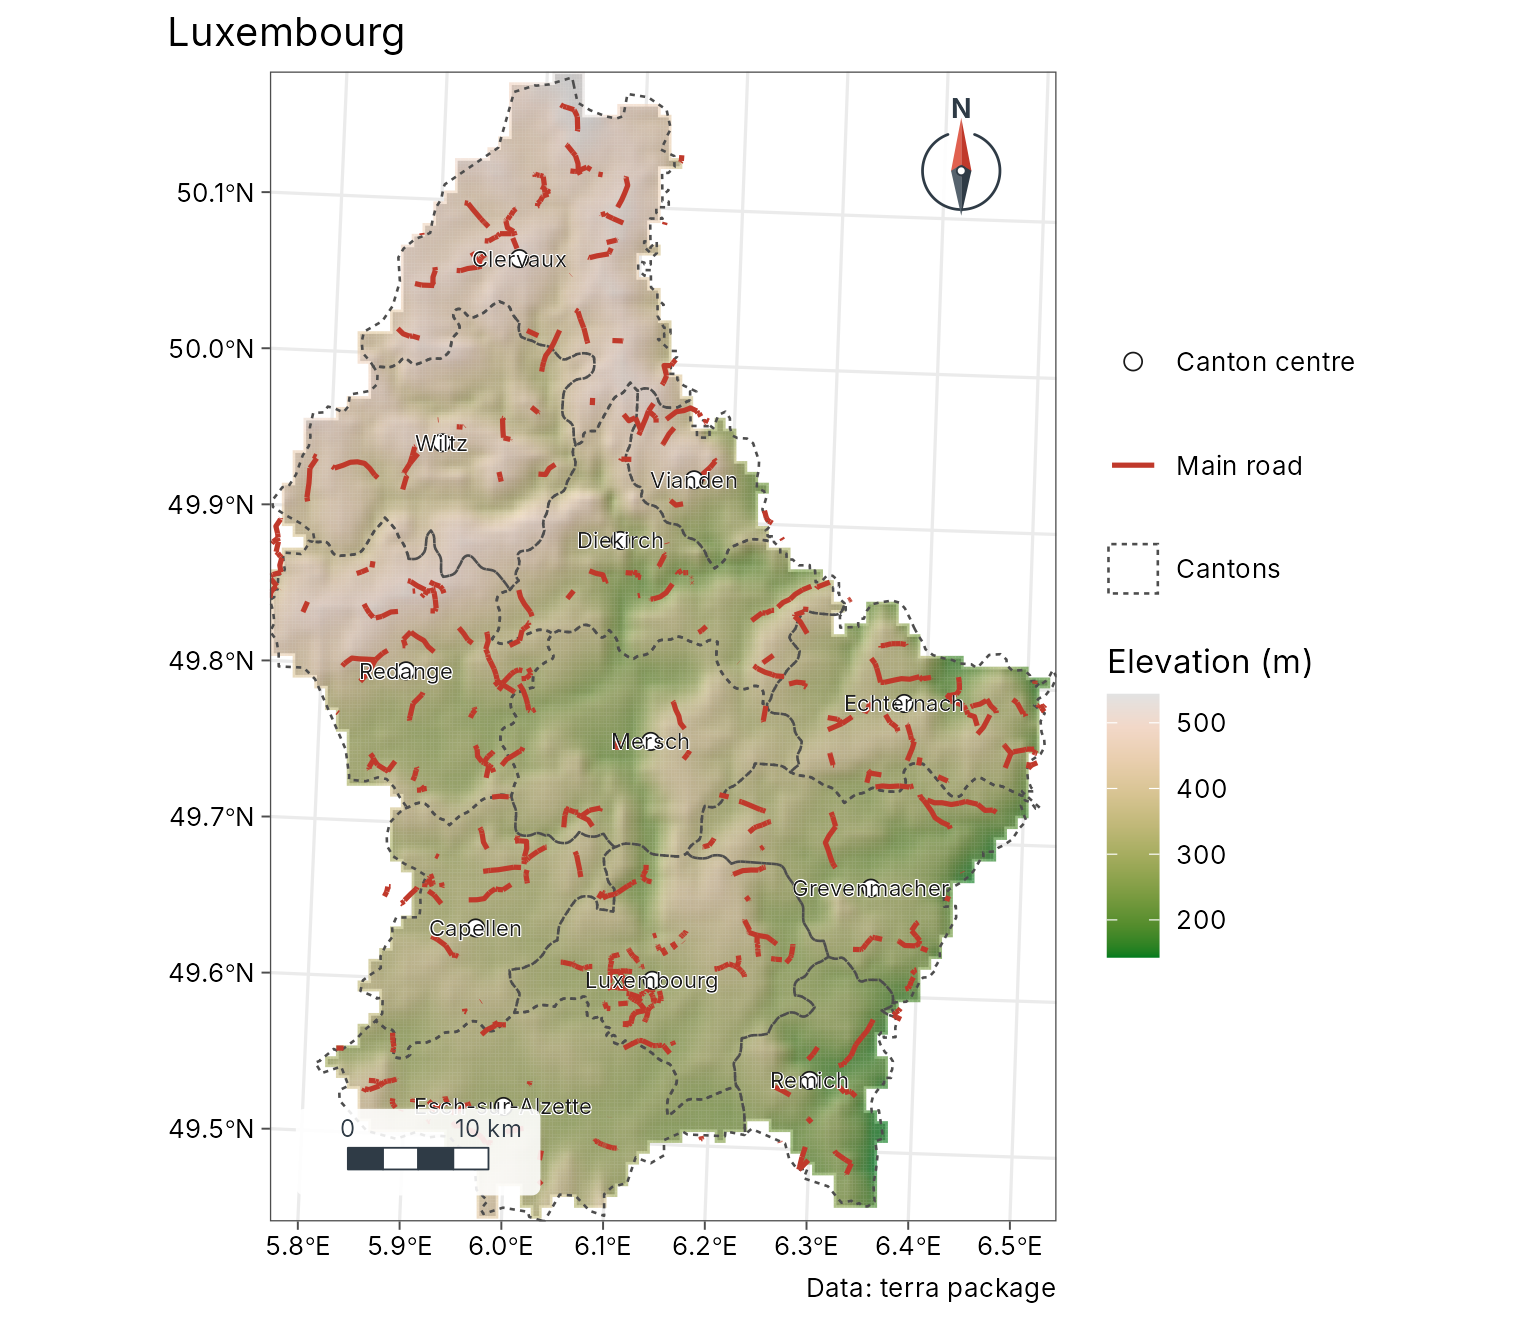
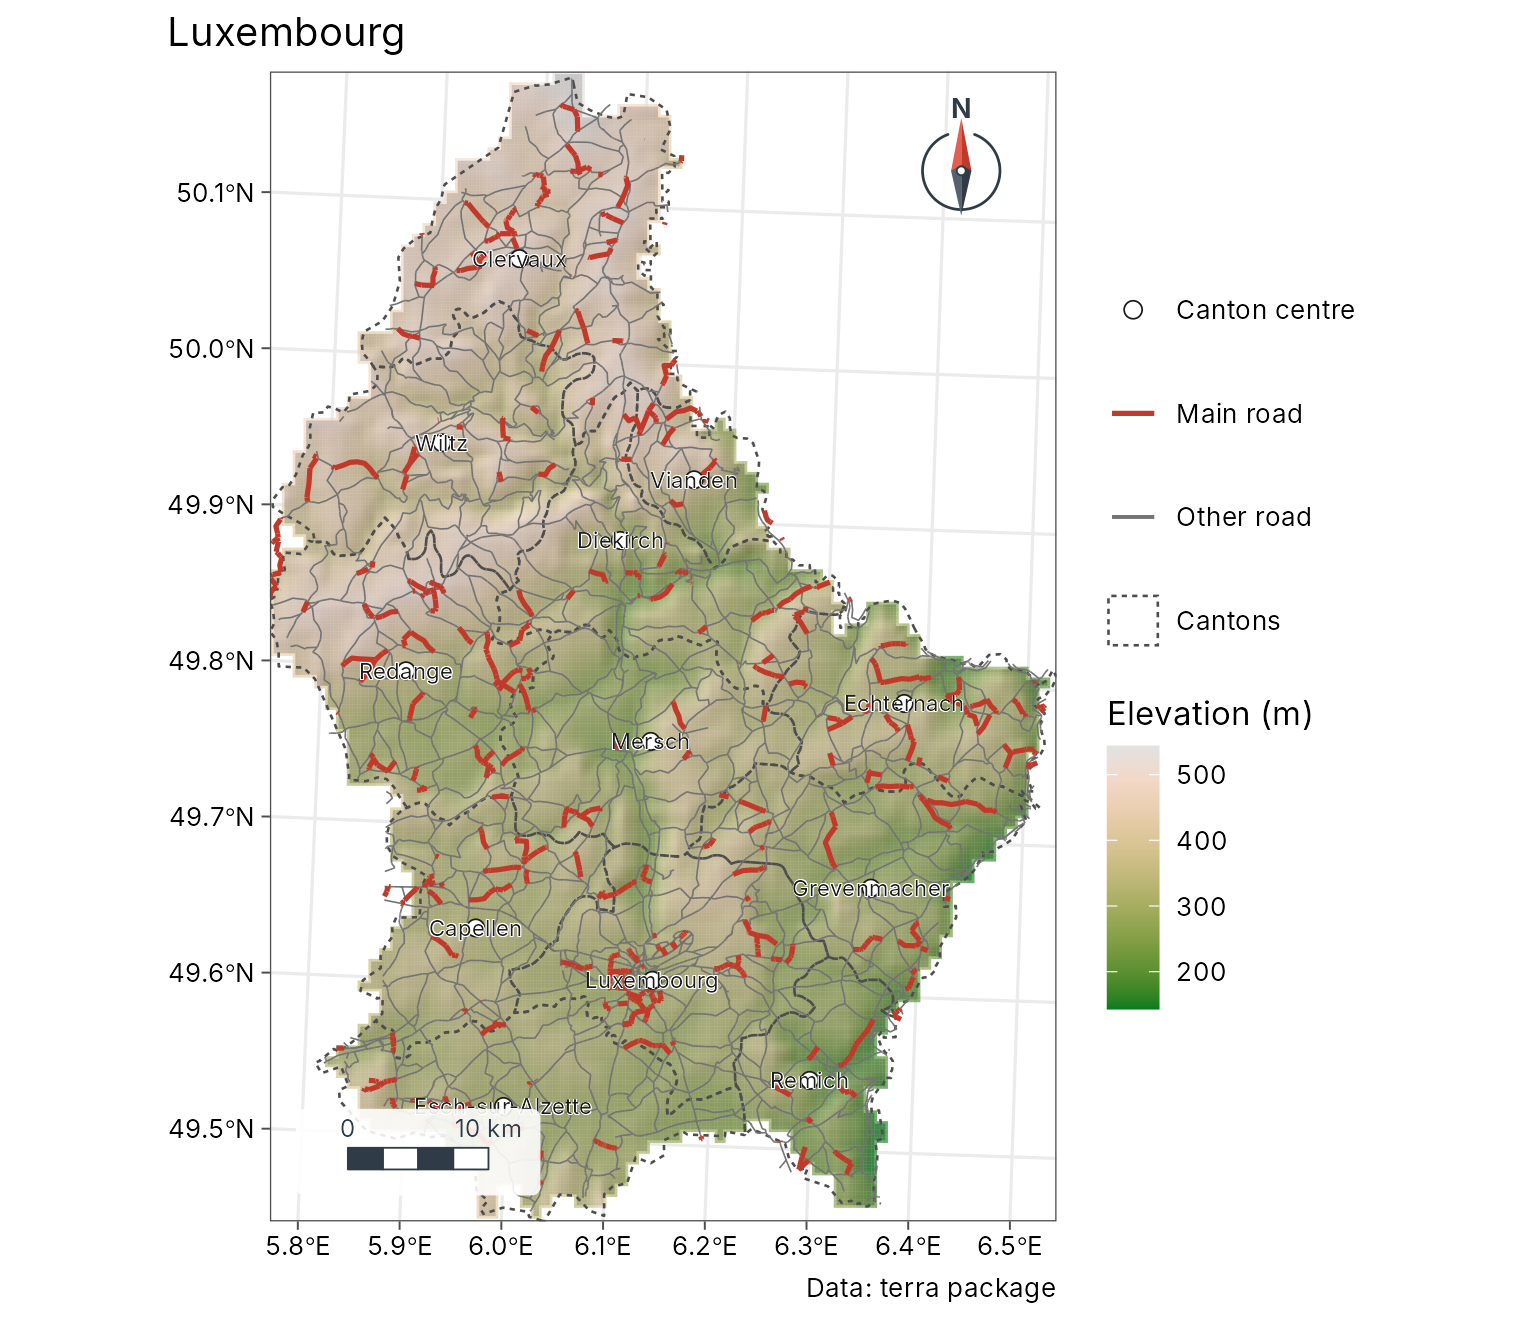
Draw the full road network in the Get started maps
The road extract splits each road into pieces of different classes, so
primary pieces alone looked disconnected. Draw minor roads first and main
roads on top, so the network is continuous.

diff --git a/docs/articles/tidymapr.html b/docs/articles/tidymapr.html
@@ -138,14 +138,14 @@ the data, and <code><a href="../reference/geo_automap.html">geo_automap_explain(
 <p><img src="tidymapr_files/figure-html/automap-1.png" class="r-plt" alt="Population of Luxembourg's cantons in five classes, with scale bar and north arrow" width="100%"></p>
 <div class="sourceCode" id="cb4"><pre class="downlit sourceCode r">
 <code class="sourceCode R"><span><span class="fu"><a href="../reference/geo_automap.html">geo_automap_explain</a></span><span class="op">(</span><span class="va">m</span><span class="op">)</span></span>
-<span><span class="co">#&gt; <span style="color: #949494;"># A tibble: 5 × 3</span></span></span>
+<span><span class="co">#&gt; # A tibble: 5 × 3</span></span>
 <span><span class="co">#&gt;   element     choice                                       reason               </span></span>
-<span><span class="co">#&gt;   <span style="color: #949494; font-style: italic;">&lt;chr&gt;</span>       <span style="color: #949494; font-style: italic;">&lt;chr&gt;</span>                                        <span style="color: #949494; font-style: italic;">&lt;chr&gt;</span>                </span></span>
-<span><span class="co">#&gt; <span style="color: #BCBCBC;">1</span> projection  utm                                          Data span 1.5 degree…</span></span>
-<span><span class="co">#&gt; <span style="color: #BCBCBC;">2</span> symbology   graduated colours (jenks, 4 classes, YlOrRd) 'POP' is numeric and…</span></span>
-<span><span class="co">#&gt; <span style="color: #BCBCBC;">3</span> basemap     none                                         Polygons, rasters an…</span></span>
-<span><span class="co">#&gt; <span style="color: #BCBCBC;">4</span> scale bar   pill at tr                                   Distances matter at …</span></span>
-<span><span class="co">#&gt; <span style="color: #BCBCBC;">5</span> north arrow needle at tl                                 Second-emptiest corn…</span></span></code></pre></div>
+<span><span class="co">#&gt;   &lt;chr&gt;       &lt;chr&gt;                                        &lt;chr&gt;                </span></span>
+<span><span class="co">#&gt; 1 projection  utm                                          Data span 1.5 degree…</span></span>
+<span><span class="co">#&gt; 2 symbology   graduated colours (jenks, 4 classes, YlOrRd) 'POP' is numeric and…</span></span>
+<span><span class="co">#&gt; 3 basemap     none                                         Polygons, rasters an…</span></span>
+<span><span class="co">#&gt; 4 scale bar   pill at tr                                   Distances matter at …</span></span>
+<span><span class="co">#&gt; 5 north arrow needle at tl                                 Second-emptiest corn…</span></span></code></pre></div>
 </div>
 <div class="section level2">
 <h2 id="a-layered-map">A layered map<a class="anchor" aria-label="anchor" href="#a-layered-map"></a>
@@ -153,13 +153,16 @@ the data, and <code><a href="../reference/geo_automap.html">geo_automap_explain(
 <p><code><a href="../reference/geo-map.html">geo_map()</a></code> builds a map one layer at a time, as in a
 desktop GIS. Each layer gets its own legend section with the symbol for
 its geometry: a colour bar for the raster, a box for polygons, a line
-for roads and a point for towns. <code>preset</code> gives a layer a
-standard cartographic style by name (see
-<code><a href="../reference/map_presets.html">map_presets()</a></code>).</p>
+for roads and a point for towns. Roads are drawn in two classes, minor
+roads first and main roads on top, so the network stays connected (in
+this OpenStreetMap extract each road is split into pieces of different
+classes). <code>preset</code> gives a layer a standard cartographic
+style by name (see <code><a href="../reference/map_presets.html">map_presets()</a></code>).</p>
 <div class="sourceCode" id="cb5"><pre class="downlit sourceCode r">
 <code class="sourceCode R"><span><span class="va">lux</span> <span class="op">&lt;-</span> <span class="fu"><a href="../reference/geo-map.html">geo_map</a></span><span class="op">(</span>title <span class="op">=</span> <span class="st">"Luxembourg"</span>, caption <span class="op">=</span> <span class="st">"Data: terra package"</span><span class="op">)</span> <span class="op">|&gt;</span></span>
 <span>  <span class="fu"><a href="../reference/geo-map.html">map_raster</a></span><span class="op">(</span><span class="va">elev</span>, name <span class="op">=</span> <span class="st">"Elevation (m)"</span>, palette <span class="op">=</span> <span class="st">"Terrain 2"</span>, hillshade <span class="op">=</span> <span class="cn">TRUE</span><span class="op">)</span> <span class="op">|&gt;</span></span>
 <span>  <span class="fu"><a href="../reference/geo-map.html">map_polygons</a></span><span class="op">(</span><span class="va">cantons</span>, preset <span class="op">=</span> <span class="st">"admin"</span>, label <span class="op">=</span> <span class="st">"Cantons"</span><span class="op">)</span> <span class="op">|&gt;</span></span>
+<span>  <span class="fu"><a href="../reference/geo-map.html">map_lines</a></span><span class="op">(</span><span class="va">roads</span><span class="op">[</span><span class="va">roads</span><span class="op">$</span><span class="va">highway</span> <span class="op">!=</span> <span class="st">"primary"</span>, <span class="op">]</span>, preset <span class="op">=</span> <span class="st">"road_minor"</span>, label <span class="op">=</span> <span class="st">"Other road"</span>, linewidth <span class="op">=</span> <span class="fl">0.25</span><span class="op">)</span> <span class="op">|&gt;</span></span>
 <span>  <span class="fu"><a href="../reference/geo-map.html">map_lines</a></span><span class="op">(</span><span class="va">roads</span><span class="op">[</span><span class="va">roads</span><span class="op">$</span><span class="va">highway</span> <span class="op">==</span> <span class="st">"primary"</span>, <span class="op">]</span>, preset <span class="op">=</span> <span class="st">"road_major"</span><span class="op">)</span> <span class="op">|&gt;</span></span>
 <span>  <span class="fu"><a href="../reference/geo-map.html">map_points</a></span><span class="op">(</span><span class="va">seats</span>, preset <span class="op">=</span> <span class="st">"town"</span>, label <span class="op">=</span> <span class="st">"Canton centre"</span><span class="op">)</span> <span class="op">|&gt;</span></span>
 <span>  <span class="fu"><a href="../reference/geo-map.html">map_labels</a></span><span class="op">(</span><span class="va">seats</span>, text <span class="op">=</span> <span class="va">NAME_2</span>, size <span class="op">=</span> <span class="fl">2.6</span><span class="op">)</span></span>
